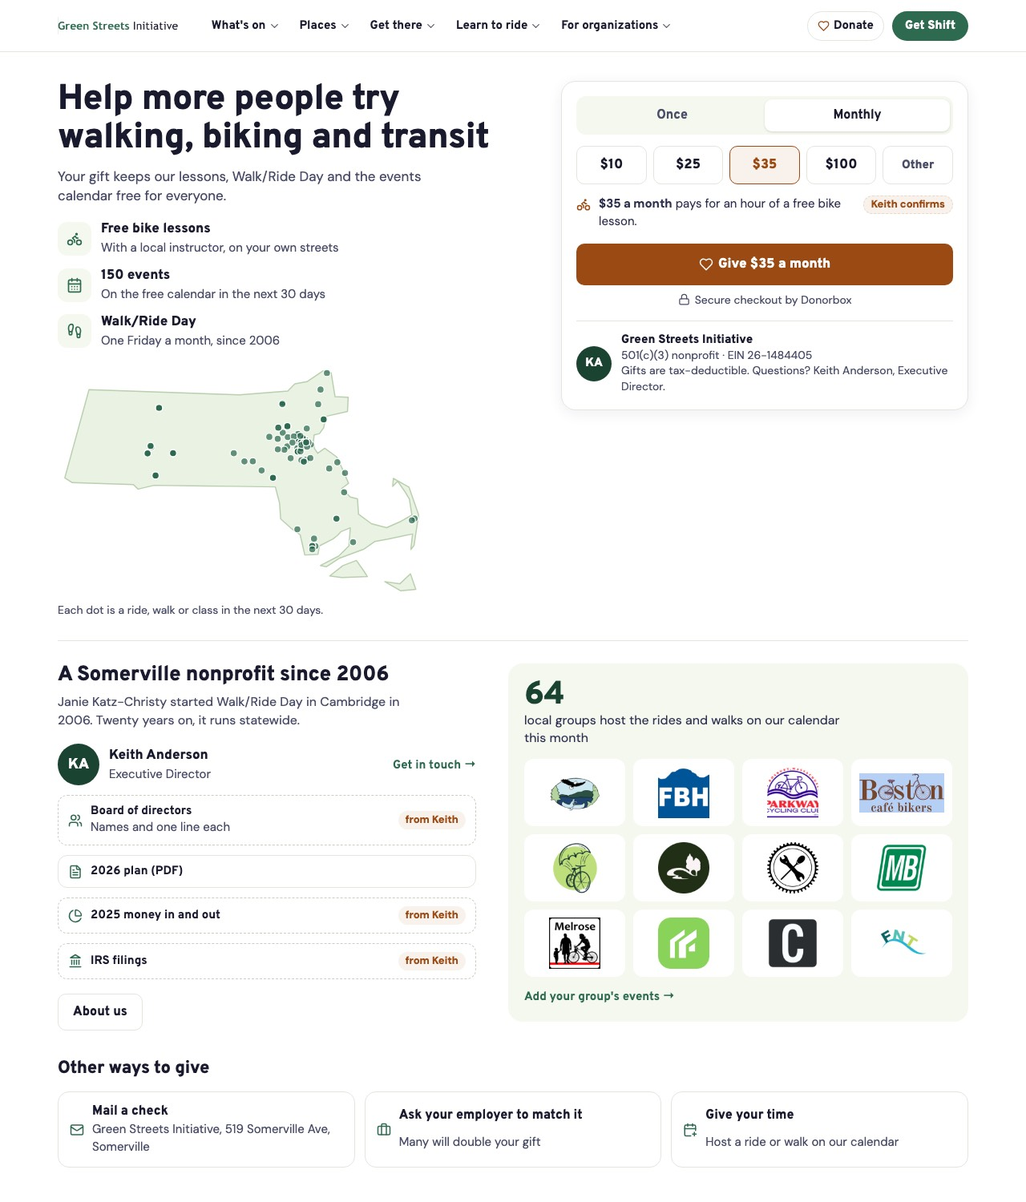
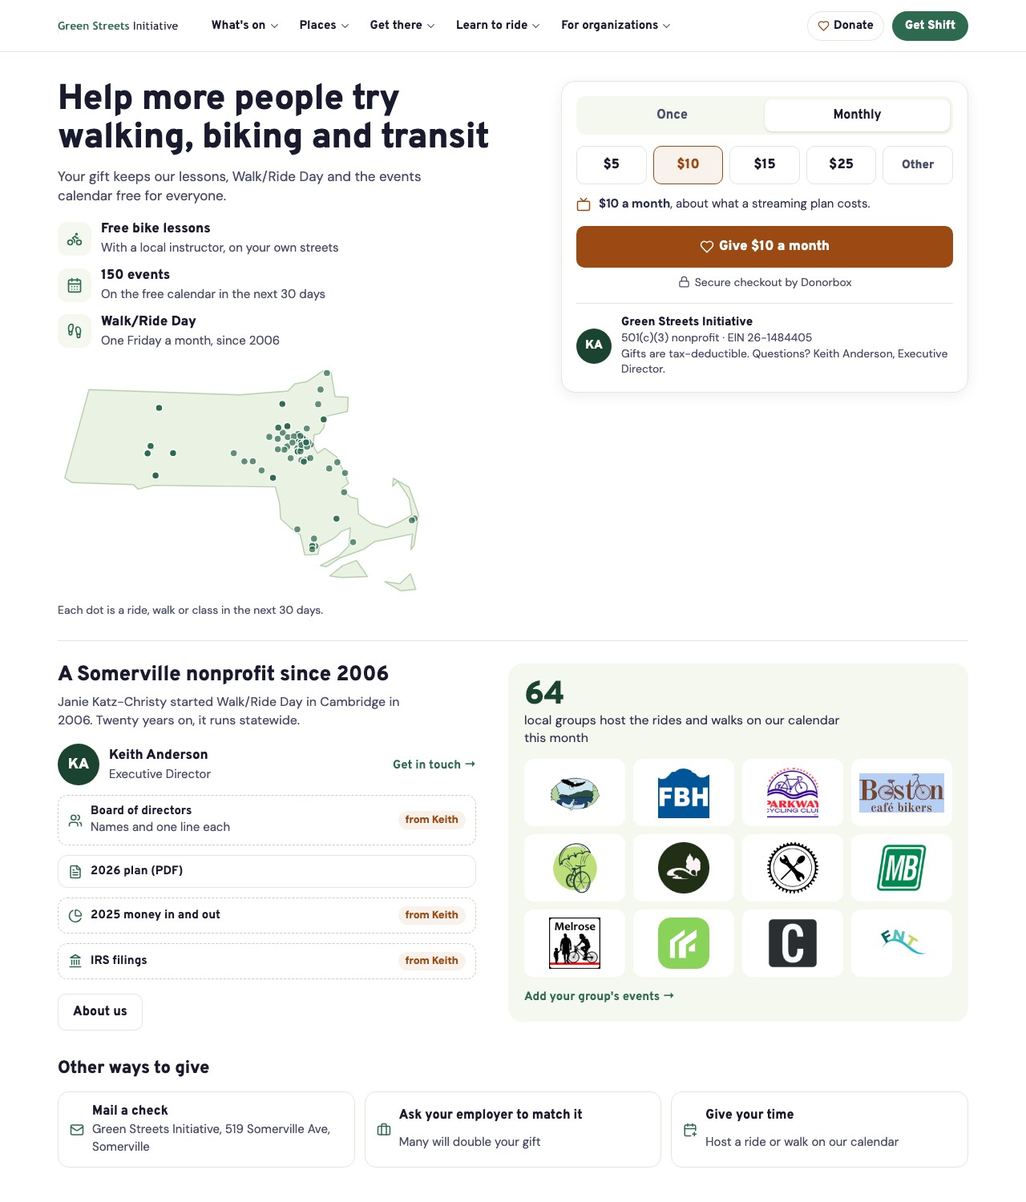
Donate mockup: monthly is the everyday ask ($5-$25, $10 picked, 'about what a streaming plan costs'); $35 moves to one-time with the lesson-hour line (Keith 2026-11-19: go for a mainstream audience)

Changed region(s): [[0.5625, 0.1227, 0.9375, 0.3373]]

diff --git a/docs/design-review-2026-11/mock/home/donate.html b/docs/design-review-2026-11/mock/home/donate.html
@@ -80,7 +80,7 @@ section{padding:16px 0}
 .dmap{margin:18px 0 0;max-width:460px}.dmap svg{width:100%;height:auto;display:block}.dmap figcaption{font-size:14px;color:var(--ink75);margin-top:4px}
 @media(max-width:899px){.dmap{display:none}}
 .give{border:1px solid var(--line);border-radius:18px;padding:18px;box-shadow:0 4px 18px #191A2E12;background:#fff}
-.tog{display:grid;grid-template-columns:1fr 1fr;background:var(--pale);border-radius:12px;padding:4px}.tog span{text-align:center;padding:10px;border-radius:9px;font:700 16px Overpass;color:var(--ink75)}.tog .on{background:#fff;color:var(--ink);box-shadow:0 1px 3px #0002}
+.tog{display:grid;grid-template-columns:1fr 1fr;background:var(--pale);border-radius:12px;padding:4px}.tog a{text-align:center;padding:10px;border-radius:9px;font:700 16px Overpass;color:var(--ink75)}.tog a.on{background:#fff;color:var(--ink);box-shadow:0 1px 3px #0002}
 .ams{display:grid;grid-template-columns:repeat(5,minmax(0,1fr));gap:8px;margin-top:14px}.am{border:1.5px solid var(--line);border-radius:10px;height:48px;display:flex;align-items:center;justify-content:center;font:800 17px Overpass}
 .am.on{border-color:var(--warm);background:var(--warmbg);color:var(--warm)}.am.other{font-size:15px;color:var(--ink75)}
 .what{display:flex;gap:10px;align-items:flex-start;margin-top:14px;font-size:15px;color:var(--ink85);flex-wrap:wrap}.what [data-lucide]{color:var(--warm);flex:0 0 auto;margin-top:2px}.what span{flex:1;min-width:180px}
@@ -130,10 +130,12 @@ section{padding:16px 0}
 <g class="land"><path d="M541.6,356.8 L566.9,360.5 L585.0,343.6 L594.0,369.8 L568.1,372.1 L541.6,356.8Z"/><path d="M448.3,347.1 L470.6,329.6 L493.5,320.8 L506.7,339.7 L512.1,348.2 L468.8,349.8 L448.3,347.1Z"/><path d="M40.9,31.9 L295.5,40.6 L377.3,34.0 L389.4,21.8 L409.8,18.3 L436.9,0.0 L450.8,3.3 L457.4,43.7 L479.6,44.7 L478.4,68.8 L441.7,77.0 L438.1,96.4 L430.9,106.2 L421.9,108.5 L420.7,120.9 L422.5,131.4 L427.9,139.4 L439.9,130.9 L459.8,145.4 L468.2,162.5 L480.2,190.3 L468.8,198.9 L483.2,213.5 L495.3,216.6 L497.1,242.5 L518.8,258.6 L544.6,265.4 L567.5,255.3 L587.4,244.0 L583.1,216.8 L575.3,204.0 L563.3,186.7 L554.9,195.6 L556.1,182.0 L582.5,196.8 L598.8,243.8 L591.0,295.5 L585.6,302.3 L588.6,276.1 L547.0,284.8 L524.8,288.7 L505.5,302.1 L465.2,316.9 L442.9,331.5 L432.7,329.4 L463.4,313.6 L480.8,296.3 L483.2,265.6 L467.6,272.0 L461.0,279.0 L453.8,284.6 L430.9,296.3 L428.5,310.5 L406.2,311.7 L398.4,277.6 L382.7,266.2 L365.3,250.4 L363.5,223.8 L356.3,196.4 L285.9,195.4 L151.1,193.7 L124.0,200.1 L116.1,192.5 L12.6,189.2 L0.0,181.2 L40.9,31.9Z"/></g><g class="dots"><circle cx="416.4" cy="124.7" r="6"/><circle cx="407.2" cy="121.7" r="6"/><circle cx="146.6" cy="128.9" r="6"/><circle cx="428.8" cy="56.4" r="6"/><circle cx="438.0" cy="82.2" r="6"/><circle cx="183.2" cy="139.2" r="6"/><circle cx="438.8" cy="82.0" r="6"/><circle cx="394.1" cy="136.7" r="6"/><circle cx="352.3" cy="181.0" r="6"/><circle cx="400.6" cy="132.4" r="6"/><circle cx="398.9" cy="135.9" r="6"/><circle cx="393.7" cy="130.9" r="6"/><circle cx="153.6" cy="177.1" r="6"/><circle cx="382.2" cy="147.8" r="6"/><circle cx="474.2" cy="172.8" r="6"/><circle cx="402.9" cy="129.5" r="6"/><circle cx="145.2" cy="127.1" r="6"/><circle cx="145.2" cy="127.1" r="6"/><circle cx="402.9" cy="129.5" r="6"/><circle cx="368.9" cy="104.7" r="6"/><circle cx="402.9" cy="129.5" r="6"/><circle cx="368.1" cy="56.3" r="6"/><circle cx="361.3" cy="96.3" r="6"/><circle cx="376.4" cy="128.0" r="6"/><circle cx="424.2" cy="296.7" r="6"/><circle cx="418.7" cy="296.3" r="6"/><circle cx="395.7" cy="115.0" r="6"/><circle cx="592.0" cy="249.9" r="6"/><circle cx="368.1" cy="56.3" r="6"/><circle cx="438.0" cy="82.2" r="6"/><circle cx="402.5" cy="117.7" r="6"/><circle cx="418.7" cy="296.3" r="6"/><circle cx="400.6" cy="132.4" r="6"/><circle cx="396.4" cy="111.0" r="6"/><circle cx="395.7" cy="115.0" r="6"/><circle cx="399.3" cy="133.7" r="6"/><circle cx="409.5" cy="97.5" r="6"/><circle cx="394.1" cy="136.7" r="6"/><circle cx="396.4" cy="111.0" r="6"/><circle cx="404.4" cy="114.8" r="6"/><circle cx="400.6" cy="132.4" r="6"/><circle cx="408.5" cy="121.0" r="6"/><circle cx="376.7" cy="93.7" r="6"/><circle cx="461.2" cy="154.8" r="6"/><circle cx="395.7" cy="115.0" r="6"/><circle cx="432.8" cy="31.6" r="6"/><circle cx="407.5" cy="117.0" r="6"/><circle cx="396.4" cy="111.0" r="6"/><circle cx="396.4" cy="111.0" r="6"/><circle cx="400.6" cy="132.4" r="6"/><circle cx="394.1" cy="136.7" r="6"/><circle cx="396.1" cy="115.8" r="6"/><circle cx="395.7" cy="115.0" r="6"/><circle cx="377.4" cy="112.1" r="6"/><circle cx="400.0" cy="121.0" r="6"/><circle cx="360.4" cy="115.1" r="6"/><circle cx="140.1" cy="139.7" r="6"/><circle cx="346.1" cy="111.7" r="6"/><circle cx="403.0" cy="117.0" r="6"/><circle cx="333.1" cy="168.5" r="6"/><circle cx="443.6" cy="3.6" r="6"/><circle cx="400.5" cy="151.2" r="6"/><circle cx="304.0" cy="153.3" r="6"/><circle cx="408.7" cy="150.1" r="6"/><circle cx="409.1" cy="121.3" r="6"/><circle cx="402.6" cy="114.2" r="6"/><circle cx="587.4" cy="253.0" r="6"/><circle cx="459.7" cy="250.3" r="6"/><circle cx="409.1" cy="121.3" r="6"/><circle cx="402.7" cy="114.1" r="6"/><circle cx="361.3" cy="96.1" r="6"/><circle cx="153.6" cy="177.1" r="6"/><circle cx="153.6" cy="177.1" r="6"/><circle cx="153.6" cy="177.1" r="6"/><circle cx="376.7" cy="93.7" r="6"/><circle cx="376.7" cy="93.7" r="6"/><circle cx="352.3" cy="181.0" r="6"/><circle cx="402.7" cy="114.1" r="6"/><circle cx="153.6" cy="177.1" r="6"/><circle cx="183.2" cy="139.2" r="6"/><circle cx="402.7" cy="114.1" r="6"/><circle cx="376.7" cy="93.7" r="6"/><circle cx="153.6" cy="177.1" r="6"/><circle cx="153.6" cy="177.1" r="6"/><circle cx="153.6" cy="177.1" r="6"/><circle cx="153.6" cy="177.1" r="6"/><circle cx="183.2" cy="139.2" r="6"/><circle cx="352.3" cy="181.0" r="6"/><circle cx="183.2" cy="139.2" r="6"/><circle cx="412.3" cy="120.8" r="6"/><circle cx="183.2" cy="139.2" r="6"/><circle cx="183.2" cy="139.2" r="6"/><circle cx="183.2" cy="139.2" r="6"/><circle cx="371.6" cy="133.5" r="6"/><circle cx="183.2" cy="139.2" r="6"/><circle cx="394.8" cy="106.8" r="6"/><circle cx="368.5" cy="54.5" r="6"/><circle cx="396.1" cy="118.8" r="6"/><circle cx="159.5" cy="62.6" r="6"/><circle cx="140.1" cy="139.7" r="6"/><circle cx="159.5" cy="62.6" r="6"/><circle cx="140.1" cy="139.7" r="6"/><circle cx="447.5" cy="165.3" r="6"/><circle cx="352.3" cy="181.0" r="6"/><circle cx="459.8" cy="250.2" r="6"/><circle cx="286.0" cy="139.4" r="6"/><circle cx="408.1" cy="123.8" r="6"/><circle cx="415.5" cy="147.6" r="6"/><circle cx="405.4" cy="124.4" r="6"/><circle cx="404.5" cy="153.6" r="6"/><circle cx="368.1" cy="56.3" r="6"/><circle cx="487.9" cy="289.9" r="6"/><circle cx="360.6" cy="132.8" r="6"/><circle cx="404.1" cy="122.7" r="6"/><circle cx="400.0" cy="121.0" r="6"/><circle cx="183.2" cy="139.2" r="6"/><circle cx="400.1" cy="131.1" r="6"/><circle cx="400.0" cy="121.0" r="6"/><circle cx="400.1" cy="131.1" r="6"/><circle cx="472.7" cy="205.5" r="6"/><circle cx="421.8" cy="284.0" r="6"/><circle cx="393.6" cy="268.1" r="6"/><circle cx="387.7" cy="111.0" r="6"/><circle cx="400.0" cy="121.0" r="6"/><circle cx="400.0" cy="121.0" r="6"/><circle cx="404.9" cy="121.8" r="6"/><circle cx="159.5" cy="62.6" r="6"/><circle cx="404.9" cy="121.8" r="6"/><circle cx="159.5" cy="62.6" r="6"/><circle cx="404.9" cy="121.8" r="6"/><circle cx="398.8" cy="136.1" r="6"/><circle cx="318.2" cy="153.0" r="6"/><circle cx="400.5" cy="125.4" r="6"/><circle cx="410.0" cy="128.3" r="6"/><circle cx="159.5" cy="62.6" r="6"/><circle cx="140.1" cy="139.7" r="6"/><circle cx="398.6" cy="110.2" r="6"/><circle cx="404.5" cy="153.6" r="6"/><circle cx="408.5" cy="121.0" r="6"/><circle cx="408.5" cy="121.0" r="6"/><circle cx="408.5" cy="121.0" r="6"/><circle cx="418.8" cy="302.1" r="6"/><circle cx="385.3" cy="121.3" r="6"/></g></svg><figcaption>Each dot is a ride, walk or class in the next 30 days.</figcaption></figure>
 </div>
 <div class="give">
-<div class="tog"><span>Once</span><span class="on">Monthly</span></div>
-<div class="ams"><span class="am">$10</span><span class="am">$25</span><span class="am on">$35</span><span class="am">$100</span><span class="am other">Other</span></div>
-<p class="what"><i data-lucide="bike"></i><span><b>$35 a month</b> pays for an hour of a free bike lesson.</span><em>Keith confirms</em></p>
-<a class="btn givebtn"><i data-lucide="heart"></i>Give $35 a month</a>
+<div class="tog"><a href="#once" data-t="once">Once</a><a href="#monthly" data-t="monthly">Monthly</a></div>
+<div class="fm" data-f="monthly"><div class="ams"><span class="am">$5</span><span class="am on">$10</span><span class="am">$15</span><span class="am">$25</span><span class="am other">Other</span></div>
+<p class="what"><i data-lucide="tv"></i><span><b>$10 a month</b>, about what a streaming plan costs.</span></p>
+<a class="btn givebtn"><i data-lucide="heart"></i>Give $10 a month</a></div><div class="fm" data-f="once"><div class="ams"><span class="am">$20</span><span class="am on">$35</span><span class="am">$50</span><span class="am">$100</span><span class="am other">Other</span></div>
+<p class="what"><i data-lucide="bike"></i><span><b>$35</b> pays for an hour of a free bike lesson.</span><em>Keith confirms</em></p>
+<a class="btn givebtn"><i data-lucide="heart"></i>Give $35</a></div>
 <p class="sec"><i data-lucide="lock"></i>Secure checkout by Donorbox</p>
 <div class="org"><span class="av">KA</span><p><b>Green Streets Initiative</b>501(c)(3) nonprofit · EIN 26-1484405<br>Gifts are tax-deductible. Questions? Keith Anderson, Executive Director.</p></div>
 </div>
@@ -165,6 +167,6 @@ section{padding:16px 0}
 <div><i data-lucide="calendar-plus"></i><b>Give your time</b><span>Host a ride or walk on our calendar</span></div>
 </div>
 </section>
-</main><footer class="foot"><div class="wrap"><b>Green Streets Initiative</b><span>519 Somerville Ave, Somerville</span><a>About</a><a>Programs</a><a>Volunteer</a><a>Contact</a><a>Press</a><a>Help</a><a>Español · Português · 中文</a></div></footer>
+</main><footer class="foot"><div class="wrap"><b>Green Streets Initiative</b><span>519 Somerville Ave, Somerville</span><a>About</a><a>Programs</a><a>Volunteer</a><a>Contact</a><a>Press</a><a>Help</a><a>Español · Português · 中文</a></div></footer><script>function sh(){var t=location.hash==='#once'?'once':'monthly';document.querySelectorAll('[data-t]').forEach(function(e){e.classList.toggle('on',e.dataset.t===t)});document.querySelectorAll('[data-f]').forEach(function(e){e.style.display=e.dataset.f===t?'':'none'})}addEventListener('hashchange',sh);sh()</script>
 <script src="https://unpkg.com/lucide@0.460.0/dist/umd/lucide.min.js"></script><script>lucide.createIcons()</script>
 </body></html>

diff --git a/docs/design-review-2026-11/mock/home/view/donate.html b/docs/design-review-2026-11/mock/home/view/donate.html
@@ -80,7 +80,7 @@ section{padding:16px 0}
 .dmap{margin:18px 0 0;max-width:460px}.dmap svg{width:100%;height:auto;display:block}.dmap figcaption{font-size:14px;color:var(--ink75);margin-top:4px}
 @media(max-width:899px){.dmap{display:none}}
 .give{border:1px solid var(--line);border-radius:18px;padding:18px;box-shadow:0 4px 18px #191A2E12;background:#fff}
-.tog{display:grid;grid-template-columns:1fr 1fr;background:var(--pale);border-radius:12px;padding:4px}.tog span{text-align:center;padding:10px;border-radius:9px;font:700 16px Overpass;color:var(--ink75)}.tog .on{background:#fff;color:var(--ink);box-shadow:0 1px 3px #0002}
+.tog{display:grid;grid-template-columns:1fr 1fr;background:var(--pale);border-radius:12px;padding:4px}.tog a{text-align:center;padding:10px;border-radius:9px;font:700 16px Overpass;color:var(--ink75)}.tog a.on{background:#fff;color:var(--ink);box-shadow:0 1px 3px #0002}
 .ams{display:grid;grid-template-columns:repeat(5,minmax(0,1fr));gap:8px;margin-top:14px}.am{border:1.5px solid var(--line);border-radius:10px;height:48px;display:flex;align-items:center;justify-content:center;font:800 17px Overpass}
 .am.on{border-color:var(--warm);background:var(--warmbg);color:var(--warm)}.am.other{font-size:15px;color:var(--ink75)}
 .what{display:flex;gap:10px;align-items:flex-start;margin-top:14px;font-size:15px;color:var(--ink85);flex-wrap:wrap}.what [data-lucide]{color:var(--warm);flex:0 0 auto;margin-top:2px}.what span{flex:1;min-width:180px}
@@ -130,10 +130,12 @@ section{padding:16px 0}
 <g class="land"><path d="M541.6,356.8 L566.9,360.5 L585.0,343.6 L594.0,369.8 L568.1,372.1 L541.6,356.8Z"/><path d="M448.3,347.1 L470.6,329.6 L493.5,320.8 L506.7,339.7 L512.1,348.2 L468.8,349.8 L448.3,347.1Z"/><path d="M40.9,31.9 L295.5,40.6 L377.3,34.0 L389.4,21.8 L409.8,18.3 L436.9,0.0 L450.8,3.3 L457.4,43.7 L479.6,44.7 L478.4,68.8 L441.7,77.0 L438.1,96.4 L430.9,106.2 L421.9,108.5 L420.7,120.9 L422.5,131.4 L427.9,139.4 L439.9,130.9 L459.8,145.4 L468.2,162.5 L480.2,190.3 L468.8,198.9 L483.2,213.5 L495.3,216.6 L497.1,242.5 L518.8,258.6 L544.6,265.4 L567.5,255.3 L587.4,244.0 L583.1,216.8 L575.3,204.0 L563.3,186.7 L554.9,195.6 L556.1,182.0 L582.5,196.8 L598.8,243.8 L591.0,295.5 L585.6,302.3 L588.6,276.1 L547.0,284.8 L524.8,288.7 L505.5,302.1 L465.2,316.9 L442.9,331.5 L432.7,329.4 L463.4,313.6 L480.8,296.3 L483.2,265.6 L467.6,272.0 L461.0,279.0 L453.8,284.6 L430.9,296.3 L428.5,310.5 L406.2,311.7 L398.4,277.6 L382.7,266.2 L365.3,250.4 L363.5,223.8 L356.3,196.4 L285.9,195.4 L151.1,193.7 L124.0,200.1 L116.1,192.5 L12.6,189.2 L0.0,181.2 L40.9,31.9Z"/></g><g class="dots"><circle cx="416.4" cy="124.7" r="6"/><circle cx="407.2" cy="121.7" r="6"/><circle cx="146.6" cy="128.9" r="6"/><circle cx="428.8" cy="56.4" r="6"/><circle cx="438.0" cy="82.2" r="6"/><circle cx="183.2" cy="139.2" r="6"/><circle cx="438.8" cy="82.0" r="6"/><circle cx="394.1" cy="136.7" r="6"/><circle cx="352.3" cy="181.0" r="6"/><circle cx="400.6" cy="132.4" r="6"/><circle cx="398.9" cy="135.9" r="6"/><circle cx="393.7" cy="130.9" r="6"/><circle cx="153.6" cy="177.1" r="6"/><circle cx="382.2" cy="147.8" r="6"/><circle cx="474.2" cy="172.8" r="6"/><circle cx="402.9" cy="129.5" r="6"/><circle cx="145.2" cy="127.1" r="6"/><circle cx="145.2" cy="127.1" r="6"/><circle cx="402.9" cy="129.5" r="6"/><circle cx="368.9" cy="104.7" r="6"/><circle cx="402.9" cy="129.5" r="6"/><circle cx="368.1" cy="56.3" r="6"/><circle cx="361.3" cy="96.3" r="6"/><circle cx="376.4" cy="128.0" r="6"/><circle cx="424.2" cy="296.7" r="6"/><circle cx="418.7" cy="296.3" r="6"/><circle cx="395.7" cy="115.0" r="6"/><circle cx="592.0" cy="249.9" r="6"/><circle cx="368.1" cy="56.3" r="6"/><circle cx="438.0" cy="82.2" r="6"/><circle cx="402.5" cy="117.7" r="6"/><circle cx="418.7" cy="296.3" r="6"/><circle cx="400.6" cy="132.4" r="6"/><circle cx="396.4" cy="111.0" r="6"/><circle cx="395.7" cy="115.0" r="6"/><circle cx="399.3" cy="133.7" r="6"/><circle cx="409.5" cy="97.5" r="6"/><circle cx="394.1" cy="136.7" r="6"/><circle cx="396.4" cy="111.0" r="6"/><circle cx="404.4" cy="114.8" r="6"/><circle cx="400.6" cy="132.4" r="6"/><circle cx="408.5" cy="121.0" r="6"/><circle cx="376.7" cy="93.7" r="6"/><circle cx="461.2" cy="154.8" r="6"/><circle cx="395.7" cy="115.0" r="6"/><circle cx="432.8" cy="31.6" r="6"/><circle cx="407.5" cy="117.0" r="6"/><circle cx="396.4" cy="111.0" r="6"/><circle cx="396.4" cy="111.0" r="6"/><circle cx="400.6" cy="132.4" r="6"/><circle cx="394.1" cy="136.7" r="6"/><circle cx="396.1" cy="115.8" r="6"/><circle cx="395.7" cy="115.0" r="6"/><circle cx="377.4" cy="112.1" r="6"/><circle cx="400.0" cy="121.0" r="6"/><circle cx="360.4" cy="115.1" r="6"/><circle cx="140.1" cy="139.7" r="6"/><circle cx="346.1" cy="111.7" r="6"/><circle cx="403.0" cy="117.0" r="6"/><circle cx="333.1" cy="168.5" r="6"/><circle cx="443.6" cy="3.6" r="6"/><circle cx="400.5" cy="151.2" r="6"/><circle cx="304.0" cy="153.3" r="6"/><circle cx="408.7" cy="150.1" r="6"/><circle cx="409.1" cy="121.3" r="6"/><circle cx="402.6" cy="114.2" r="6"/><circle cx="587.4" cy="253.0" r="6"/><circle cx="459.7" cy="250.3" r="6"/><circle cx="409.1" cy="121.3" r="6"/><circle cx="402.7" cy="114.1" r="6"/><circle cx="361.3" cy="96.1" r="6"/><circle cx="153.6" cy="177.1" r="6"/><circle cx="153.6" cy="177.1" r="6"/><circle cx="153.6" cy="177.1" r="6"/><circle cx="376.7" cy="93.7" r="6"/><circle cx="376.7" cy="93.7" r="6"/><circle cx="352.3" cy="181.0" r="6"/><circle cx="402.7" cy="114.1" r="6"/><circle cx="153.6" cy="177.1" r="6"/><circle cx="183.2" cy="139.2" r="6"/><circle cx="402.7" cy="114.1" r="6"/><circle cx="376.7" cy="93.7" r="6"/><circle cx="153.6" cy="177.1" r="6"/><circle cx="153.6" cy="177.1" r="6"/><circle cx="153.6" cy="177.1" r="6"/><circle cx="153.6" cy="177.1" r="6"/><circle cx="183.2" cy="139.2" r="6"/><circle cx="352.3" cy="181.0" r="6"/><circle cx="183.2" cy="139.2" r="6"/><circle cx="412.3" cy="120.8" r="6"/><circle cx="183.2" cy="139.2" r="6"/><circle cx="183.2" cy="139.2" r="6"/><circle cx="183.2" cy="139.2" r="6"/><circle cx="371.6" cy="133.5" r="6"/><circle cx="183.2" cy="139.2" r="6"/><circle cx="394.8" cy="106.8" r="6"/><circle cx="368.5" cy="54.5" r="6"/><circle cx="396.1" cy="118.8" r="6"/><circle cx="159.5" cy="62.6" r="6"/><circle cx="140.1" cy="139.7" r="6"/><circle cx="159.5" cy="62.6" r="6"/><circle cx="140.1" cy="139.7" r="6"/><circle cx="447.5" cy="165.3" r="6"/><circle cx="352.3" cy="181.0" r="6"/><circle cx="459.8" cy="250.2" r="6"/><circle cx="286.0" cy="139.4" r="6"/><circle cx="408.1" cy="123.8" r="6"/><circle cx="415.5" cy="147.6" r="6"/><circle cx="405.4" cy="124.4" r="6"/><circle cx="404.5" cy="153.6" r="6"/><circle cx="368.1" cy="56.3" r="6"/><circle cx="487.9" cy="289.9" r="6"/><circle cx="360.6" cy="132.8" r="6"/><circle cx="404.1" cy="122.7" r="6"/><circle cx="400.0" cy="121.0" r="6"/><circle cx="183.2" cy="139.2" r="6"/><circle cx="400.1" cy="131.1" r="6"/><circle cx="400.0" cy="121.0" r="6"/><circle cx="400.1" cy="131.1" r="6"/><circle cx="472.7" cy="205.5" r="6"/><circle cx="421.8" cy="284.0" r="6"/><circle cx="393.6" cy="268.1" r="6"/><circle cx="387.7" cy="111.0" r="6"/><circle cx="400.0" cy="121.0" r="6"/><circle cx="400.0" cy="121.0" r="6"/><circle cx="404.9" cy="121.8" r="6"/><circle cx="159.5" cy="62.6" r="6"/><circle cx="404.9" cy="121.8" r="6"/><circle cx="159.5" cy="62.6" r="6"/><circle cx="404.9" cy="121.8" r="6"/><circle cx="398.8" cy="136.1" r="6"/><circle cx="318.2" cy="153.0" r="6"/><circle cx="400.5" cy="125.4" r="6"/><circle cx="410.0" cy="128.3" r="6"/><circle cx="159.5" cy="62.6" r="6"/><circle cx="140.1" cy="139.7" r="6"/><circle cx="398.6" cy="110.2" r="6"/><circle cx="404.5" cy="153.6" r="6"/><circle cx="408.5" cy="121.0" r="6"/><circle cx="408.5" cy="121.0" r="6"/><circle cx="408.5" cy="121.0" r="6"/><circle cx="418.8" cy="302.1" r="6"/><circle cx="385.3" cy="121.3" r="6"/></g></svg><figcaption>Each dot is a ride, walk or class in the next 30 days.</figcaption></figure>
 </div>
 <div class="give">
-<div class="tog"><span>Once</span><span class="on">Monthly</span></div>
-<div class="ams"><span class="am">$10</span><span class="am">$25</span><span class="am on">$35</span><span class="am">$100</span><span class="am other">Other</span></div>
-<p class="what"><i data-lucide="bike"></i><span><b>$35 a month</b> pays for an hour of a free bike lesson.</span><em>Keith confirms</em></p>
-<a class="btn givebtn"><i data-lucide="heart"></i>Give $35 a month</a>
+<div class="tog"><a href="#once" data-t="once">Once</a><a href="#monthly" data-t="monthly">Monthly</a></div>
+<div class="fm" data-f="monthly"><div class="ams"><span class="am">$5</span><span class="am on">$10</span><span class="am">$15</span><span class="am">$25</span><span class="am other">Other</span></div>
+<p class="what"><i data-lucide="tv"></i><span><b>$10 a month</b>, about what a streaming plan costs.</span></p>
+<a class="btn givebtn"><i data-lucide="heart"></i>Give $10 a month</a></div><div class="fm" data-f="once"><div class="ams"><span class="am">$20</span><span class="am on">$35</span><span class="am">$50</span><span class="am">$100</span><span class="am other">Other</span></div>
+<p class="what"><i data-lucide="bike"></i><span><b>$35</b> pays for an hour of a free bike lesson.</span><em>Keith confirms</em></p>
+<a class="btn givebtn"><i data-lucide="heart"></i>Give $35</a></div>
 <p class="sec"><i data-lucide="lock"></i>Secure checkout by Donorbox</p>
 <div class="org"><span class="av">KA</span><p><b>Green Streets Initiative</b>501(c)(3) nonprofit · EIN 26-1484405<br>Gifts are tax-deductible. Questions? Keith Anderson, Executive Director.</p></div>
 </div>
@@ -165,6 +167,6 @@ section{padding:16px 0}
 <div><i data-lucide="calendar-plus"></i><b>Give your time</b><span>Host a ride or walk on our calendar</span></div>
 </div>
 </section>
-</main><footer class="foot"><div class="wrap"><b>Green Streets Initiative</b><span>519 Somerville Ave, Somerville</span><a>About</a><a>Programs</a><a>Volunteer</a><a>Contact</a><a>Press</a><a>Help</a><a>Español · Português · 中文</a></div></footer>
+</main><footer class="foot"><div class="wrap"><b>Green Streets Initiative</b><span>519 Somerville Ave, Somerville</span><a>About</a><a>Programs</a><a>Volunteer</a><a>Contact</a><a>Press</a><a>Help</a><a>Español · Português · 中文</a></div></footer><script>function sh(){var t=location.hash==='#once'?'once':'monthly';document.querySelectorAll('[data-t]').forEach(function(e){e.classList.toggle('on',e.dataset.t===t)});document.querySelectorAll('[data-f]').forEach(function(e){e.style.display=e.dataset.f===t?'':'none'})}addEventListener('hashchange',sh);sh()</script>
 <script src="https://unpkg.com/lucide@0.460.0/dist/umd/lucide.min.js"></script><script>lucide.createIcons()</script>
 </body></html>

diff --git a/docs/design-review-2026-11/mock/home/build_v2.py b/docs/design-review-2026-11/mock/home/build_v2.py
@@ -143,8 +143,16 @@ def home2():
 
 
 def donate():
-    amts = [('10', False), ('25', False), ('35', True), ('100', False)]
-    amt_html = ''.join(f'<span class="am{" on" if on else ""}">${a}</span>' for a, on in amts)
+    # Keith 2026-11-19: monthly is the accessible ask, benchmarked to an everyday bill;
+    # $35 is a one-time amount (memory feedback_donation_amounts).
+    def amts(vals, on):
+        return ''.join(f'<span class="am{" on" if a == on else ""}">${a}</span>' for a in vals) + '<span class="am other">Other</span>'
+    form_monthly = f'''<div class="ams">{amts(['5', '10', '15', '25'], '10')}</div>
+<p class="what"><i data-lucide="tv"></i><span><b>$10 a month</b>, about what a streaming plan costs.</span></p>
+<a class="btn givebtn"><i data-lucide="heart"></i>Give $10 a month</a>'''
+    form_once = f'''<div class="ams">{amts(['20', '35', '50', '100'], '35')}</div>
+<p class="what"><i data-lucide="bike"></i><span><b>$35</b> pays for an hour of a free bike lesson.</span><em>Keith confirms</em></p>
+<a class="btn givebtn"><i data-lucide="heart"></i>Give $35</a>'''
     body = f'''{nav2()}
 <main class="wrap">
 <section class="dn">
@@ -161,10 +169,8 @@ def donate():
 <figure class="dmap">{ma_map()}<figcaption>Each dot is a ride, walk or class in the next 30 days.</figcaption></figure>
 </div>
 <div class="give">
-<div class="tog"><span>Once</span><span class="on">Monthly</span></div>
-<div class="ams">{amt_html}<span class="am other">Other</span></div>
-<p class="what"><i data-lucide="bike"></i><span><b>$35 a month</b> pays for an hour of a free bike lesson.</span><em>Keith confirms</em></p>
-<a class="btn givebtn"><i data-lucide="heart"></i>Give $35 a month</a>
+<div class="tog"><a href="#once" data-t="once">Once</a><a href="#monthly" data-t="monthly">Monthly</a></div>
+<div class="fm" data-f="monthly">{form_monthly}</div><div class="fm" data-f="once">{form_once}</div>
 <p class="sec"><i data-lucide="lock"></i>Secure checkout by Donorbox</p>
 <div class="org"><span class="av">KA</span><p><b>Green Streets Initiative</b>501(c)(3) nonprofit · EIN 26-1484405<br>Gifts are tax-deductible. Questions? Keith Anderson, Executive Director.</p></div>
 </div>
@@ -190,7 +196,7 @@ def donate():
 .dmap{margin:18px 0 0;max-width:460px}.dmap svg{width:100%;height:auto;display:block}.dmap figcaption{font-size:14px;color:var(--ink75);margin-top:4px}
 @media(max-width:899px){.dmap{display:none}}
 .give{border:1px solid var(--line);border-radius:18px;padding:18px;box-shadow:0 4px 18px #191A2E12;background:#fff}
-.tog{display:grid;grid-template-columns:1fr 1fr;background:var(--pale);border-radius:12px;padding:4px}.tog span{text-align:center;padding:10px;border-radius:9px;font:700 16px Overpass;color:var(--ink75)}.tog .on{background:#fff;color:var(--ink);box-shadow:0 1px 3px #0002}
+.tog{display:grid;grid-template-columns:1fr 1fr;background:var(--pale);border-radius:12px;padding:4px}.tog a{text-align:center;padding:10px;border-radius:9px;font:700 16px Overpass;color:var(--ink75)}.tog a.on{background:#fff;color:var(--ink);box-shadow:0 1px 3px #0002}
 .ams{display:grid;grid-template-columns:repeat(5,minmax(0,1fr));gap:8px;margin-top:14px}.am{border:1.5px solid var(--line);border-radius:10px;height:48px;display:flex;align-items:center;justify-content:center;font:800 17px Overpass}
 .am.on{border-color:var(--warm);background:var(--warmbg);color:var(--warm)}.am.other{font-size:15px;color:var(--ink75)}
 .what{display:flex;gap:10px;align-items:flex-start;margin-top:14px;font-size:15px;color:var(--ink85);flex-wrap:wrap}.what [data-lucide]{color:var(--warm);flex:0 0 auto;margin-top:2px}.what span{flex:1;min-width:180px}
@@ -202,7 +208,8 @@ def donate():
 .other h2{font-size:22px;margin-bottom:12px}.ow{display:grid;gap:12px}@media(min-width:900px){.ow{grid-template-columns:repeat(3,1fr)}}
 .ow div{border:1px solid var(--line);border-radius:14px;padding:14px;display:grid;grid-template-columns:auto 1fr;gap:2px 10px;align-items:center}.ow [data-lucide]{grid-row:span 2;color:var(--forest)}
 .ow b{font:800 16px Overpass}.ow span{font-size:15px;color:var(--ink75)}''' + MAP_CSS + WHO_CSS + NAV_PHONE_CSS
-    return page('Donate', body, css)
+    js = """<script>function sh(){var t=location.hash==='#once'?'once':'monthly';document.querySelectorAll('[data-t]').forEach(function(e){e.classList.toggle('on',e.dataset.t===t)});document.querySelectorAll('[data-f]').forEach(function(e){e.style.display=e.dataset.f===t?'':'none'})}addEventListener('hashchange',sh);sh()</script>"""
+    return page('Donate', body + js, css)
 
 
 def inline(html):
